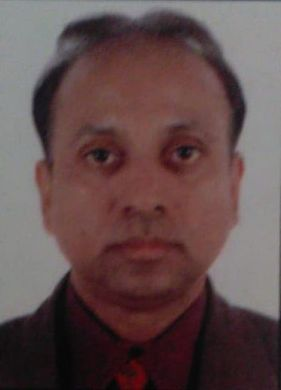
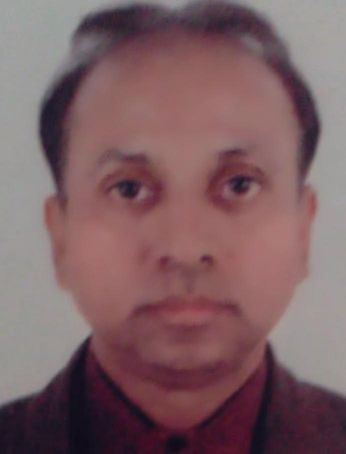
changed pic

diff --git a/about.html b/about.html
@@ -113,7 +113,7 @@
                         Karan brings over 40+ years of experience in the I.T industry working as a full-stack developer. He is in charge of developing the curriculum for the blockchain and AI courses. Karan is a polygot and speaks many languages such as Erlang, GO, Python, JavaScript, C++ and Ruby.
                 </div>
                 <div class="img-container">
-                    <img src="images/baboo.jpeg" alt="">
+                    <img src="images/baboo.jpeg" id="baboo" alt="">
                 </div>
                 <div class="text-container">
                     <h1 class="heading-grey">Rajesh Jain</h1>

diff --git a/css/style.css b/css/style.css
@@ -1083,6 +1083,11 @@ td, th {
 tr:nth-child(even) {
     background-color: #dddddd;
 }
+
+#baboo {
+  width: 200px;
+  height: 200px;
+}
     .inner-masthead {
         display: grid;
         grid-template-columns: 500px auto;
